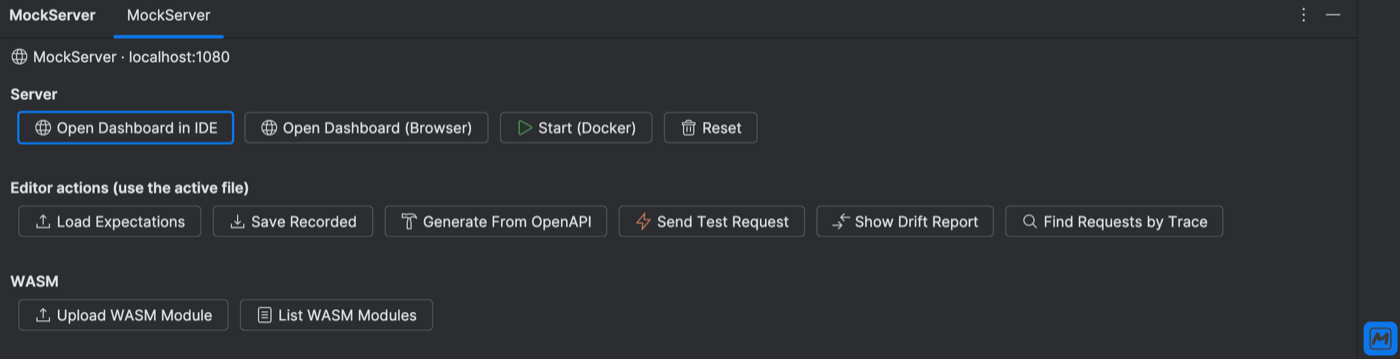
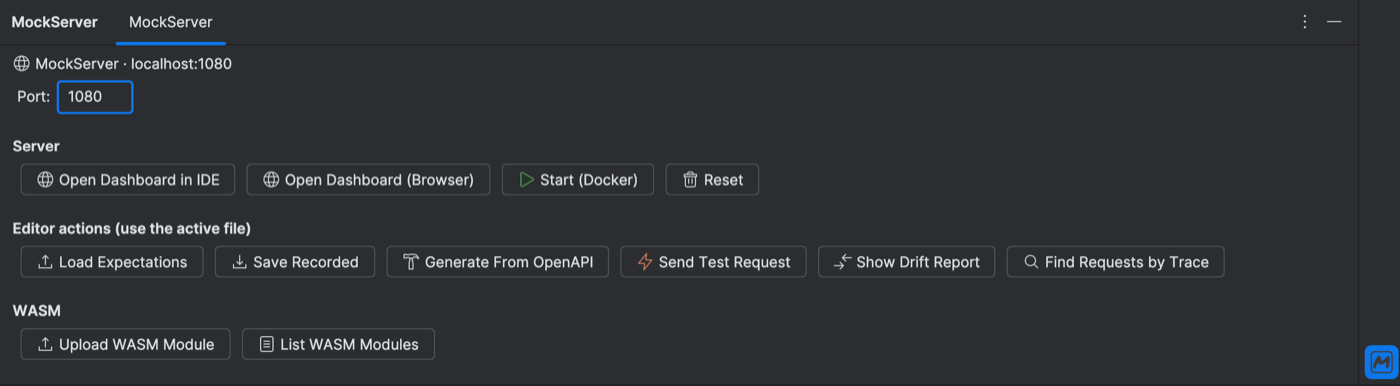
docs(jetbrains): refresh tool-window screenshot with the Port field; add framed marketplace screenshots
- update the MockServer tool-window screenshot (website + plugin README) to show
  the new inline Port field
- add ready-to-upload framed copies for the JetBrains Marketplace gallery under
  docs/screenshots/marketplace/ (rounded corners + equal padding baked in, since
  the gallery has no CSS), plus the Pillow script that regenerates them from the
  raw screenshots; the website/README copies stay raw and get their frame from
  the .ui_image CSS class

diff --git a/mockserver-jetbrains/docs/make-marketplace-screenshots.py b/mockserver-jetbrains/docs/make-marketplace-screenshots.py
@@ -1,0 +1,44 @@
+#!/usr/bin/env python3
+"""Frame raw IDE screenshots for the JetBrains Marketplace gallery.
+
+Bakes in what the website gets from CSS (.ui_image): equal padding, a dark
+rounded card, rounded screenshot corners, and a subtle border. Source = the
+full-res captures; the committed website images are left untouched.
+"""
+import sys
+from pathlib import Path
+from PIL import Image, ImageDraw
+
+CARD_BG = (20, 22, 26, 255)      # dark card behind the screenshot
+BORDER = (43, 45, 49, 255)        # subtle 1px edge
+PAD = 56                          # equal space on all sides
+INNER_RADIUS = 12                 # screenshot corner rounding
+OUTER_RADIUS = 26                 # card corner rounding
+
+def rounded_alpha(size, radius):
+    mask = Image.new("L", size, 0)
+    ImageDraw.Draw(mask).rounded_rectangle([0, 0, size[0] - 1, size[1] - 1], radius=radius, fill=255)
+    return mask
+
+def frame(src: Path, dst: Path):
+    shot = Image.open(src).convert("RGBA")
+    shot.putalpha(rounded_alpha(shot.size, INNER_RADIUS))
+    w, h = shot.size
+    canvas = Image.new("RGBA", (w + 2 * PAD, h + 2 * PAD), (0, 0, 0, 0))
+    card = Image.new("RGBA", canvas.size, (0, 0, 0, 0))
+    d = ImageDraw.Draw(card)
+    d.rounded_rectangle([0, 0, canvas.size[0] - 1, canvas.size[1] - 1],
+                        radius=OUTER_RADIUS, fill=CARD_BG, outline=BORDER, width=1)
+    canvas = Image.alpha_composite(canvas, card)
+    canvas.paste(shot, (PAD, PAD), shot)
+    dst.parent.mkdir(parents=True, exist_ok=True)
+    canvas.save(dst)
+    print(f"  {src.name}  {w}x{h}  ->  {dst}  {canvas.size[0]}x{canvas.size[1]}")
+
+def main():
+    src_dir, dst_dir = Path(sys.argv[1]), Path(sys.argv[2])
+    for src in sorted(src_dir.glob("*.png")):
+        frame(src, dst_dir / src.name)
+
+if __name__ == "__main__":
+    main()

diff --git a/docs/code/editor-extensions.md b/docs/code/editor-extensions.md
@@ -242,5 +242,5 @@ The script starts a `mockserver-try` Docker container (unless `--no-server`), cr
 | Schema must be regenerated after `mockserver-core` changes | The committed schema in both extensions is a snapshot. After any change to `mockserver-core/.../schema/*.json` or to `JsonSchemaExpectationValidator`'s reference list, run `node scripts/generate-editor-expectation-schema.mjs` and commit the updated files in both extensions |
 | JetBrains `soft_fail` in CI | The JetBrains test step has `soft_fail: true` in `pipeline-editors.yml`. A failing JetBrains step does not block the build — check Buildkite manually if JetBrains tests become relevant to a change |
 | JetBrains Marketplace renders `<description>`, NOT the README | The JetBrains Marketplace page is built from the `<description>` HTML (limited subset: `<p>`, `<ul>`, `<li>`, `<b>`, `<em>`, `<a>`, `<br>` — no `<img>`/`<code>`/`<style>`) inside `plugin.xml`, not `mockserver-jetbrains/README.md`. Marketing copy must live in the `<description>`; screenshots/GIFs are uploaded separately in the Marketplace UI. The VS Code Marketplace and Open VSX, by contrast, render `mockserver-vscode/README.md` verbatim (images/GIFs allowed). When updating the pitch, update BOTH surfaces |
-| Screenshot assets live in two places | The IntelliJ screenshots are committed at `mockserver-jetbrains/docs/screenshots/*.png` (rendered in the GitHub/plugin README and used as the source to upload to the JetBrains Marketplace gallery) AND copied to `jekyll-www.mock-server.com/images/intellij_*.png` (rendered on the `mock_server/ide_extensions.html` website page). JetBrains Marketplace screenshots are NOT taken from the repo — they must be uploaded manually in the Marketplace UI |
+| Screenshot assets live in three places | The IntelliJ screenshots are committed at `mockserver-jetbrains/docs/screenshots/*.png` (raw — rendered in the GitHub/plugin README) AND copied to `jekyll-www.mock-server.com/images/intellij_*.png` (raw — rendered on the `mock_server/ide_extensions.html` website page; both surfaces get a frame from the `.ui_image` CSS class, so the committed images stay raw). For the JetBrains Marketplace gallery (which has NO CSS), ready-to-upload **framed** copies — rounded corners + equal padding baked in — live in `mockserver-jetbrains/docs/screenshots/marketplace/`, regenerated from the raw screenshots by `mockserver-jetbrains/docs/make-marketplace-screenshots.py <src-dir> <out-dir>` (Pillow). JetBrains Marketplace screenshots are NOT taken from the repo automatically — they must be uploaded manually in the Marketplace UI |
 | VS Code `activationEvents` must include `onStartupFinished` | The status-bar item and CodeLens providers are created in `activate()`. With an empty `activationEvents` they only appear after the first palette command runs (commands get implicit `onCommand:` activation). Keep `onStartupFinished` so the passive surfaces light up on a fresh window |